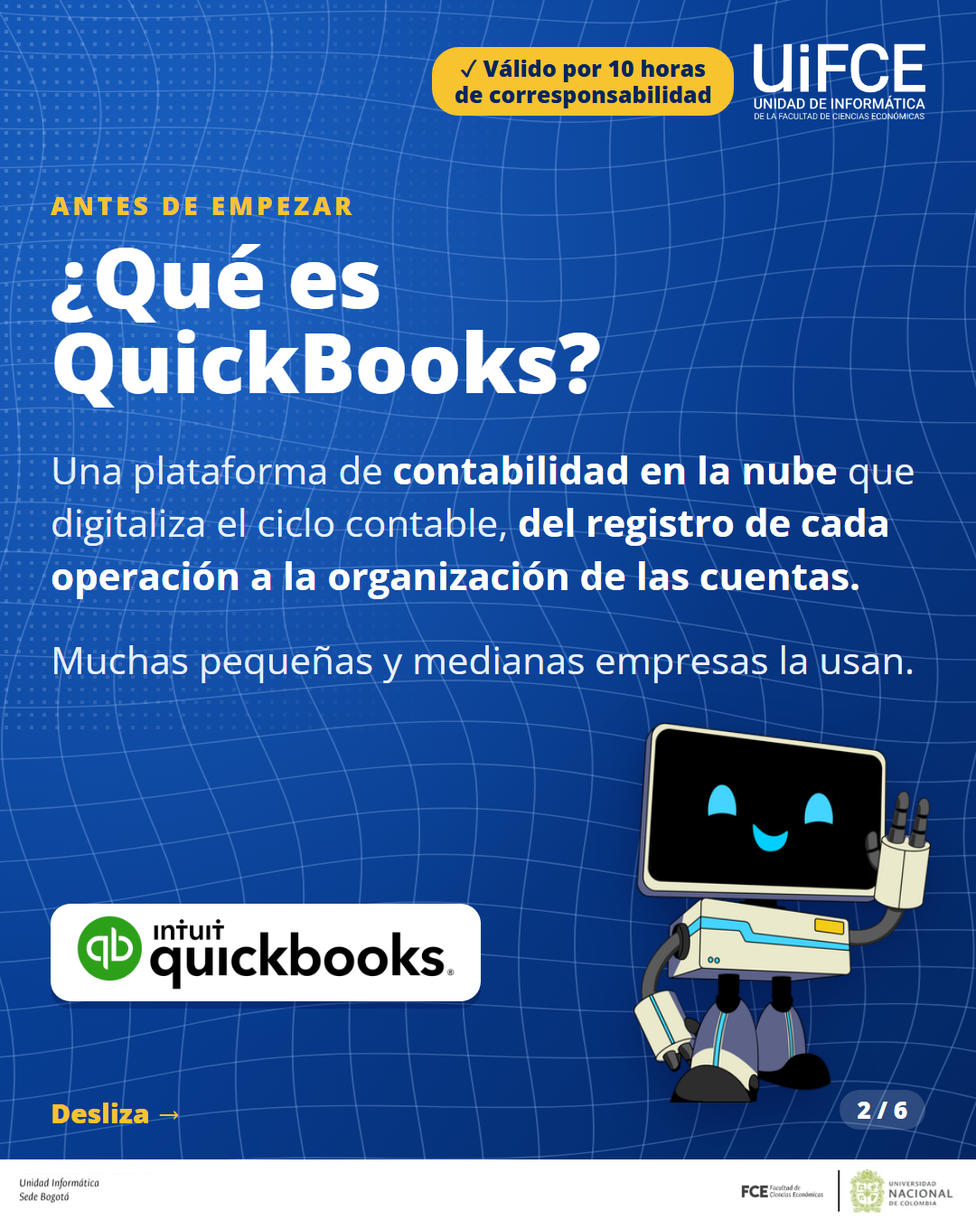
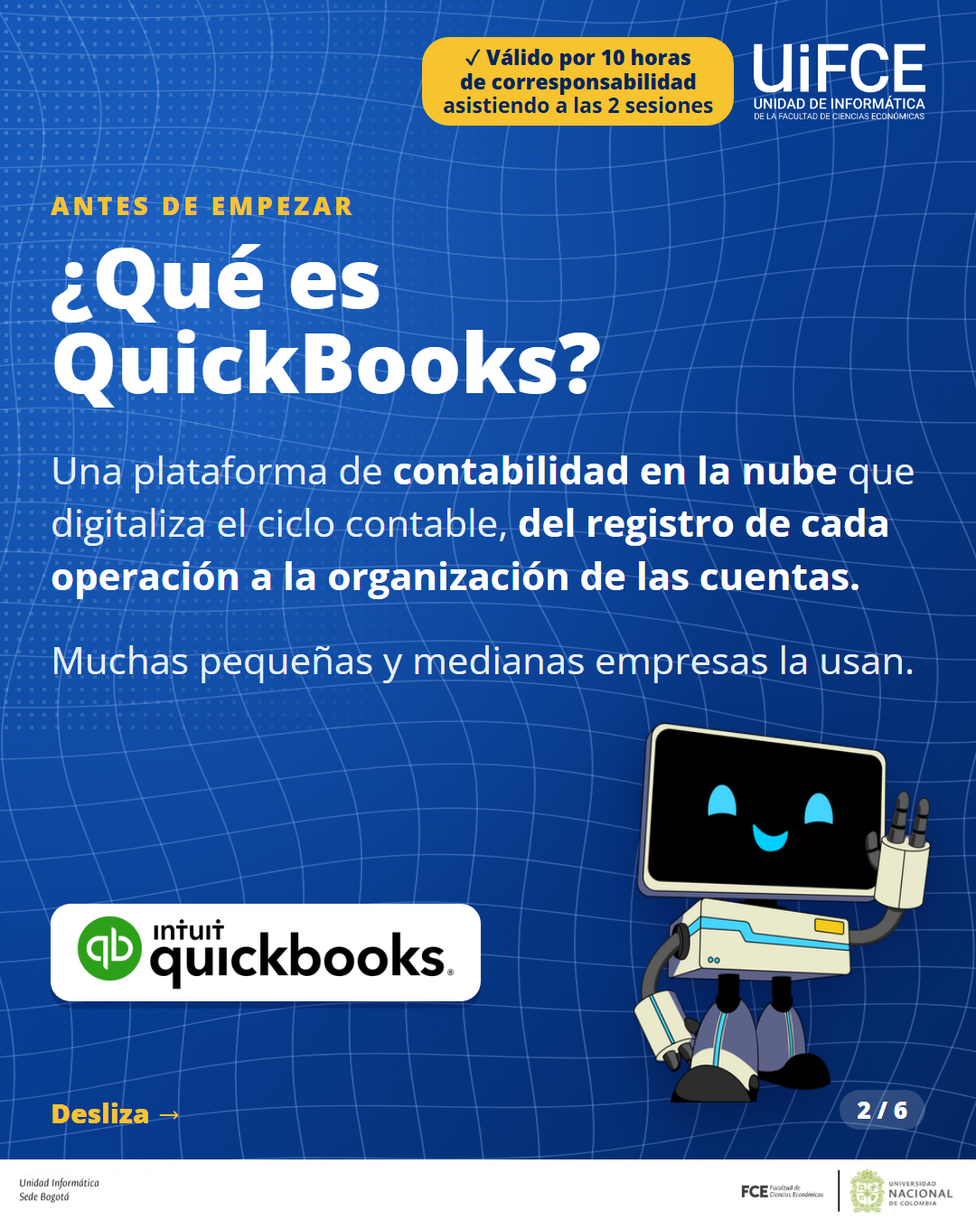
P4: etiqueta de corresponsabilidad indica asistir a las dos sesiones; tv-03 con requisito de dos sesiones

Changed region(s): [[0.4278, 0.0311, 0.7639, 0.1244]]

diff --git a/propuesta-4/extras/ig-04.html b/propuesta-4/extras/ig-04.html
@@ -17,7 +17,7 @@ body{position:relative;overflow:hidden;background:#073a8c;font-family:var(--font
 .qrb small{display:block;font-weight:700;color:var(--blue)}
 .qrb b{display:block;font-weight:800;line-height:1.05}
 .qrb i{display:inline-block;font-style:normal;background:var(--navy);color:#fff;border-radius:999px;font-weight:700}
-.n{position:absolute;z-index:3;right:56px;bottom:100px;font-weight:800;font-size:26px;background:rgba(255,255,255,.16);border-radius:999px;padding:6px 20px}.sw{position:absolute;z-index:3;left:56px;bottom:100px;font-weight:800;font-size:30px;color:var(--gold)}</style></head><body><img class="bg" src="../assets/bg-grid.svg" alt=""><div class="dots"></div><img class="z" src="../assets/logo-uifce-static-blanco.png" alt="UIFCE" style="right:56px;top:48px;height:84px"><div class="z" style="right:268px;top:48px;height:84px;display:flex;align-items:center"><span class="chip on" style="margin:0;font-size:25px;line-height:1.15;text-align:center;border-radius:30px">✓ Válido por 10 horas<br>de corresponsabilidad</span></div><div class="z" style="left:56px;top:200px;width:968px"><div style="background:var(--gold);color:var(--navy);box-shadow:0 8px 0 rgba(0,10,60,.28);border-radius:30px;padding:40px 44px">
+.n{position:absolute;z-index:3;right:56px;bottom:100px;font-weight:800;font-size:26px;background:rgba(255,255,255,.16);border-radius:999px;padding:6px 20px}.sw{position:absolute;z-index:3;left:56px;bottom:100px;font-weight:800;font-size:30px;color:var(--gold)}</style></head><body><img class="bg" src="../assets/bg-grid.svg" alt=""><div class="dots"></div><img class="z" src="../assets/logo-uifce-static-blanco.png" alt="UIFCE" style="right:56px;top:48px;height:84px"><div class="z" style="right:268px;top:48px;height:84px;display:flex;align-items:center"><span class="chip on" style="margin:0;font-size:23px;line-height:1.15;text-align:center;border-radius:30px">✓ Válido por 10 horas<br>de corresponsabilidad<br><b style="color:#04255f;font-weight:700">asistiendo a las 2 sesiones</b></span></div><div class="z" style="left:56px;top:200px;width:968px"><div style="background:var(--gold);color:var(--navy);box-shadow:0 8px 0 rgba(0,10,60,.28);border-radius:30px;padding:40px 44px">
 <div style="display:flex;gap:26px;align-items:center"><svg viewBox="0 0 50 50" width="96" height="96" fill="none" stroke="#04255f" stroke-width="3.6" stroke-linecap="round" stroke-linejoin="round" style="flex:none"><circle cx="25" cy="25" r="20"/><path d="M15 26l7 7 13-15"/></svg><b style="font-weight:800;font-size:68px;line-height:1.02">10 horas de corresponsabilidad</b></div></div>
 <div style="margin-top:52px;display:flex;align-items:center;gap:24px"><svg width="84" height="84" viewBox="0 0 50 50" style="flex:none"><rect width="50" height="50" rx="10" fill="#0A66C2"/><circle cx="12.6" cy="14.6" r="4" fill="#fff"/><rect x="9" y="20.5" width="7.2" height="20" fill="#fff"/><path d="M20.5 20.5h6.9v2.9c1.2-2 3.4-3.4 6.6-3.4 6 0 7.5 3.9 7.5 9.2v11.3h-7.2V30.8c0-2.2-.4-3.9-2.6-3.9-2.4 0-3.2 1.7-3.2 4.2v9.4h-7z" fill="#fff"/></svg><div><b style="font-size:46px;font-weight:800;line-height:1.1;display:block">Certificado de participación</b><span style="font-size:34px">Compártelo en tu perfil de LinkedIn</span></div></div>
 <div class="card" style="margin-top:50px;padding:36px 40px"><div class="k" style="font-size:28px">Para recibirlos necesitas</div>

diff --git a/propuesta-4/extras/ig-01.html b/propuesta-4/extras/ig-01.html
@@ -17,7 +17,7 @@ body{position:relative;overflow:hidden;background:#073a8c;font-family:var(--font
 .qrb small{display:block;font-weight:700;color:var(--blue)}
 .qrb b{display:block;font-weight:800;line-height:1.05}
 .qrb i{display:inline-block;font-style:normal;background:var(--navy);color:#fff;border-radius:999px;font-weight:700}
-.n{position:absolute;z-index:3;right:56px;bottom:100px;font-weight:800;font-size:26px;background:rgba(255,255,255,.16);border-radius:999px;padding:6px 20px}.sw{position:absolute;z-index:3;left:56px;bottom:100px;font-weight:800;font-size:30px;color:var(--gold)}.sw{left:360px}</style></head><body><img class="bg" src="../assets/bg-grid.svg" alt=""><div class="dots"></div><img class="z" src="../assets/logo-uifce-static-blanco.png" alt="UIFCE" style="right:56px;top:48px;height:84px"><div class="z" style="right:268px;top:48px;height:84px;display:flex;align-items:center"><span class="chip on" style="margin:0;font-size:25px;line-height:1.15;text-align:center;border-radius:30px">✓ Válido por 10 horas<br>de corresponsabilidad</span></div><div class="z" style="left:56px;top:56px;font-size:25px"><span class="chip on">Gratuito</span><span class="chip">100 % virtual</span></div>
+.n{position:absolute;z-index:3;right:56px;bottom:100px;font-weight:800;font-size:26px;background:rgba(255,255,255,.16);border-radius:999px;padding:6px 20px}.sw{position:absolute;z-index:3;left:56px;bottom:100px;font-weight:800;font-size:30px;color:var(--gold)}.sw{left:360px}</style></head><body><img class="bg" src="../assets/bg-grid.svg" alt=""><div class="dots"></div><img class="z" src="../assets/logo-uifce-static-blanco.png" alt="UIFCE" style="right:56px;top:48px;height:84px"><div class="z" style="right:268px;top:48px;height:84px;display:flex;align-items:center"><span class="chip on" style="margin:0;font-size:23px;line-height:1.15;text-align:center;border-radius:30px">✓ Válido por 10 horas<br>de corresponsabilidad<br><b style="color:#04255f;font-weight:700">asistiendo a las 2 sesiones</b></span></div><div class="z" style="left:56px;top:56px;font-size:25px"><span class="chip on">Gratuito</span><span class="chip">100 % virtual</span></div>
 <div class="z" style="left:56px;top:250px;width:968px"><p style="font-weight:600;font-size:54px;line-height:1.1">Aprende contabilidad con</p>
 <h1 style="font-weight:800;font-size:150px;line-height:.95;letter-spacing:-.03em;text-transform:uppercase;margin:8px 0 0 -6px">QuickBooks</h1>
 <p style="margin-top:34px;font-weight:600;font-size:52px;line-height:1.1">Formación práctica<br><em style="font-weight:700;color:var(--gold)">en 2 sesiones virtuales</em></p></div><img class="z" src="../assets/uifcito-cierre.png" alt="Uifcito" style="left:-20px;top:760px;height:520px;filter:drop-shadow(0 22px 28px rgba(0,10,60,.45))"><div class="z" style="right:56px;top:830px;width:470px;font-weight:800;font-size:44px;line-height:1.12;text-align:right">Abre la contabilidad de una empresa en la nube</div><div class="z white" style="right:56px;top:1030px;border-radius:22px;padding:12px 28px"><img src="../assets/logo-quickbooks.png" style="height:74px;display:block" alt="QuickBooks"></div><img class="z" src="../assets/footer.png" alt="" style="left:0;bottom:0;width:100%;height:auto"><div class="sw">Desliza →</div><div class="n">1 / 6</div></body></html>

diff --git a/propuesta-4/extras/ig-02.html b/propuesta-4/extras/ig-02.html
@@ -17,7 +17,7 @@ body{position:relative;overflow:hidden;background:#073a8c;font-family:var(--font
 .qrb small{display:block;font-weight:700;color:var(--blue)}
 .qrb b{display:block;font-weight:800;line-height:1.05}
 .qrb i{display:inline-block;font-style:normal;background:var(--navy);color:#fff;border-radius:999px;font-weight:700}
-.n{position:absolute;z-index:3;right:56px;bottom:100px;font-weight:800;font-size:26px;background:rgba(255,255,255,.16);border-radius:999px;padding:6px 20px}.sw{position:absolute;z-index:3;left:56px;bottom:100px;font-weight:800;font-size:30px;color:var(--gold)}</style></head><body><img class="bg" src="../assets/bg-grid.svg" alt=""><div class="dots"></div><img class="z" src="../assets/logo-uifce-static-blanco.png" alt="UIFCE" style="right:56px;top:48px;height:84px"><div class="z" style="right:268px;top:48px;height:84px;display:flex;align-items:center"><span class="chip on" style="margin:0;font-size:25px;line-height:1.15;text-align:center;border-radius:30px">✓ Válido por 10 horas<br>de corresponsabilidad</span></div><div class="z" style="left:56px;top:210px;width:968px"><div class="k" style="font-size:28px">Antes de empezar</div>
+.n{position:absolute;z-index:3;right:56px;bottom:100px;font-weight:800;font-size:26px;background:rgba(255,255,255,.16);border-radius:999px;padding:6px 20px}.sw{position:absolute;z-index:3;left:56px;bottom:100px;font-weight:800;font-size:30px;color:var(--gold)}</style></head><body><img class="bg" src="../assets/bg-grid.svg" alt=""><div class="dots"></div><img class="z" src="../assets/logo-uifce-static-blanco.png" alt="UIFCE" style="right:56px;top:48px;height:84px"><div class="z" style="right:268px;top:48px;height:84px;display:flex;align-items:center"><span class="chip on" style="margin:0;font-size:23px;line-height:1.15;text-align:center;border-radius:30px">✓ Válido por 10 horas<br>de corresponsabilidad<br><b style="color:#04255f;font-weight:700">asistiendo a las 2 sesiones</b></span></div><div class="z" style="left:56px;top:210px;width:968px"><div class="k" style="font-size:28px">Antes de empezar</div>
 <h2 style="font-weight:800;font-size:92px;line-height:1.02;margin-top:14px">¿Qué es<br>QuickBooks?</h2>
 <p style="margin-top:44px;font-size:42px;line-height:1.4;color:#e6efff">Una plataforma de <b style="color:#fff">contabilidad en la nube</b> que digitaliza el ciclo contable, <b style="color:#fff">del registro de cada operación a la organización de las cuentas.</b></p>
 <p style="margin-top:34px;font-size:42px;line-height:1.4;color:#e6efff">Muchas pequeñas y medianas empresas la usan.</p></div><div class="z white" style="left:56px;top:1000px;border-radius:22px;padding:12px 28px"><img src="../assets/logo-quickbooks.png" style="height:84px;display:block" alt="QuickBooks"></div><img class="z" src="../assets/uifcito-cierre.png" alt="Uifcito" style="right:50px;top:800px;height:420px;filter:drop-shadow(0 22px 28px rgba(0,10,60,.45))"><img class="z" src="../assets/footer.png" alt="" style="left:0;bottom:0;width:100%;height:auto"><div class="sw">Desliza →</div><div class="n">2 / 6</div></body></html>

diff --git a/propuesta-4/extras/ig-06.html b/propuesta-4/extras/ig-06.html
@@ -17,6 +17,6 @@ body{position:relative;overflow:hidden;background:#073a8c;font-family:var(--font
 .qrb small{display:block;font-weight:700;color:var(--blue)}
 .qrb b{display:block;font-weight:800;line-height:1.05}
 .qrb i{display:inline-block;font-style:normal;background:var(--navy);color:#fff;border-radius:999px;font-weight:700}
-.n{position:absolute;z-index:3;right:56px;bottom:100px;font-weight:800;font-size:26px;background:rgba(255,255,255,.16);border-radius:999px;padding:6px 20px}.sw{position:absolute;z-index:3;left:56px;bottom:100px;font-weight:800;font-size:30px;color:var(--gold)}</style></head><body><img class="bg" src="../assets/bg-grid.svg" alt=""><div class="dots"></div><img class="z" src="../assets/logo-uifce-static-blanco.png" alt="UIFCE" style="right:56px;top:48px;height:84px"><div class="z" style="right:268px;top:48px;height:84px;display:flex;align-items:center"><span class="chip on" style="margin:0;font-size:25px;line-height:1.15;text-align:center;border-radius:30px">✓ Válido por 10 horas<br>de corresponsabilidad</span></div><div class="z" style="left:56px;top:190px;width:968px"><h2 style="font-weight:800;font-size:96px;line-height:1.02">¡Inscríbete<br><span class="gold">gratis!</span></h2></div>
+.n{position:absolute;z-index:3;right:56px;bottom:100px;font-weight:800;font-size:26px;background:rgba(255,255,255,.16);border-radius:999px;padding:6px 20px}.sw{position:absolute;z-index:3;left:56px;bottom:100px;font-weight:800;font-size:30px;color:var(--gold)}</style></head><body><img class="bg" src="../assets/bg-grid.svg" alt=""><div class="dots"></div><img class="z" src="../assets/logo-uifce-static-blanco.png" alt="UIFCE" style="right:56px;top:48px;height:84px"><div class="z" style="right:268px;top:48px;height:84px;display:flex;align-items:center"><span class="chip on" style="margin:0;font-size:23px;line-height:1.15;text-align:center;border-radius:30px">✓ Válido por 10 horas<br>de corresponsabilidad<br><b style="color:#04255f;font-weight:700">asistiendo a las 2 sesiones</b></span></div><div class="z" style="left:56px;top:190px;width:968px"><h2 style="font-weight:800;font-size:96px;line-height:1.02">¡Inscríbete<br><span class="gold">gratis!</span></h2></div>
 <div class="z qrb" style="left:56px;top:480px;width:968px;border-radius:40px;padding:36px 44px;gap:44px"><img src="../assets/qr-uifce.svg" style="width:340px;height:340px" alt="QR">
 <span><small style="font-size:30px">Escanea el QR</small><b style="font-size:70px;margin-top:8px">Inscripciones aquí</b><i style="margin-top:20px;font-size:36px;padding:10px 28px">linktr.ee/UIFCE</i></span></div><div class="z" style="left:56px;top:940px;width:968px;font-size:36px;font-weight:600;line-height:1.4">Vie. 27 nov y mié. 2 dic · 11 a. m. – 1 p. m.<br><span style="color:var(--gold);font-weight:700">uniic_bog@unal.edu.co</span> · Tel. 316 5000, ext. 12301<br>LinkedIn: <span style="color:var(--gold);font-weight:700">linkedin.com/in/uifce</span></div><img class="z" src="../assets/footer.png" alt="" style="left:0;bottom:0;width:100%;height:auto"><div class="n">6 / 6</div></body></html>

diff --git a/propuesta-4/extras/ig-03.html b/propuesta-4/extras/ig-03.html
@@ -17,7 +17,7 @@ body{position:relative;overflow:hidden;background:#073a8c;font-family:var(--font
 .qrb small{display:block;font-weight:700;color:var(--blue)}
 .qrb b{display:block;font-weight:800;line-height:1.05}
 .qrb i{display:inline-block;font-style:normal;background:var(--navy);color:#fff;border-radius:999px;font-weight:700}
-.n{position:absolute;z-index:3;right:56px;bottom:100px;font-weight:800;font-size:26px;background:rgba(255,255,255,.16);border-radius:999px;padding:6px 20px}.sw{position:absolute;z-index:3;left:56px;bottom:100px;font-weight:800;font-size:30px;color:var(--gold)}</style></head><body><img class="bg" src="../assets/bg-grid.svg" alt=""><div class="dots"></div><img class="z" src="../assets/logo-uifce-static-blanco.png" alt="UIFCE" style="right:56px;top:48px;height:84px"><div class="z" style="right:268px;top:48px;height:84px;display:flex;align-items:center"><span class="chip on" style="margin:0;font-size:25px;line-height:1.15;text-align:center;border-radius:30px">✓ Válido por 10 horas<br>de corresponsabilidad</span></div><div class="z" style="left:56px;top:190px"><h2 style="font-weight:800;font-size:84px;line-height:1.02">Dos sesiones,<br><span class="gold">4 horas en total</span></h2></div><div class="z card" style="left:56px;top:480px;width:968px;padding:36px 40px"><div class="k" style="font-size:28px">Sesión 1</div>
+.n{position:absolute;z-index:3;right:56px;bottom:100px;font-weight:800;font-size:26px;background:rgba(255,255,255,.16);border-radius:999px;padding:6px 20px}.sw{position:absolute;z-index:3;left:56px;bottom:100px;font-weight:800;font-size:30px;color:var(--gold)}</style></head><body><img class="bg" src="../assets/bg-grid.svg" alt=""><div class="dots"></div><img class="z" src="../assets/logo-uifce-static-blanco.png" alt="UIFCE" style="right:56px;top:48px;height:84px"><div class="z" style="right:268px;top:48px;height:84px;display:flex;align-items:center"><span class="chip on" style="margin:0;font-size:23px;line-height:1.15;text-align:center;border-radius:30px">✓ Válido por 10 horas<br>de corresponsabilidad<br><b style="color:#04255f;font-weight:700">asistiendo a las 2 sesiones</b></span></div><div class="z" style="left:56px;top:190px"><h2 style="font-weight:800;font-size:84px;line-height:1.02">Dos sesiones,<br><span class="gold">4 horas en total</span></h2></div><div class="z card" style="left:56px;top:480px;width:968px;padding:36px 40px"><div class="k" style="font-size:28px">Sesión 1</div>
 <h3 style="font-weight:800;font-size:56px;line-height:1.1;margin-top:10px">Conoce QuickBooks y abre Crece Digital S.A.S.</h3>
 <div style="margin-top:22px;border:3px dashed rgba(255,255,255,.65);border-radius:18px;padding:18px 24px;font-weight:700;font-size:38px">Viernes 27 de noviembre · 11 a. m. – 1 p. m.</div></div><div class="z card" style="left:56px;top:830px;width:968px;padding:36px 40px"><div class="k" style="font-size:28px">Sesión 2</div>
 <h3 style="font-weight:800;font-size:56px;line-height:1.1;margin-top:10px">Crea tu plan de cuentas, el capital y el catálogo</h3>

diff --git a/propuesta-4/extras/tv-03.html b/propuesta-4/extras/tv-03.html
@@ -17,10 +17,11 @@ body{position:relative;overflow:hidden;background:#073a8c;font-family:var(--font
 .qrb small{display:block;font-weight:700;color:var(--blue)}
 .qrb b{display:block;font-weight:800;line-height:1.05}
 .qrb i{display:inline-block;font-style:normal;background:var(--navy);color:#fff;border-radius:999px;font-weight:700}
-</style></head><body><img class="bg" src="../assets/bg-grid.svg" alt=""><div class="dots"></div><img class="z" src="../assets/logo-uifce-static-blanco.png" alt="UIFCE" style="left:56px;top:44px;height:96px"><div class="z" style="left:310px;top:44px;height:96px;display:flex;align-items:center"><span class="chip on" style="margin:0;font-size:36px">✓ Válido por 10 horas de corresponsabilidad</span></div><div class="z" style="left:56px;top:170px;width:1808px"><div style="background:var(--gold);color:var(--navy);border-radius:30px;padding:40px 52px;display:flex;align-items:center;gap:34px;box-shadow:0 8px 0 rgba(0,10,60,.28)"><svg viewBox="0 0 50 50" width="130" height="130" fill="none" stroke="#04255f" stroke-width="3.6" stroke-linecap="round" stroke-linejoin="round" style="flex:none"><circle cx="25" cy="25" r="20"/><path d="M15 26l7 7 13-15"/></svg>
+</style></head><body><img class="bg" src="../assets/bg-grid.svg" alt=""><div class="dots"></div><img class="z" src="../assets/logo-uifce-static-blanco.png" alt="UIFCE" style="left:56px;top:44px;height:96px"><div class="z" style="left:310px;top:44px;height:96px;display:flex;align-items:center"><span class="chip on" style="margin:0;font-size:34px;line-height:1.15;border-radius:40px">✓ Válido por 10 horas de corresponsabilidad<br><b style="color:#04255f;font-weight:700">asistiendo a las 2 sesiones</b></span></div><div class="z" style="left:56px;top:170px;width:1808px"><div style="background:var(--gold);color:var(--navy);border-radius:30px;padding:40px 52px;display:flex;align-items:center;gap:34px;box-shadow:0 8px 0 rgba(0,10,60,.28)"><svg viewBox="0 0 50 50" width="130" height="130" fill="none" stroke="#04255f" stroke-width="3.6" stroke-linecap="round" stroke-linejoin="round" style="flex:none"><circle cx="25" cy="25" r="20"/><path d="M15 26l7 7 13-15"/></svg>
 <b style="font-weight:800;font-size:86px;line-height:1.05">10 horas de corresponsabilidad + certificado</b></div></div>
 <div class="z card" style="left:56px;top:470px;width:1250px;padding:40px 52px"><div class="k" style="font-size:36px">Para recibirlos necesitas</div>
 <ul style="list-style:none;font-size:48px;font-weight:700;line-height:1.3;margin-top:16px">
+<li style="margin-top:14px"><span class="gold">✓</span> Asistir a las <b class="gold">dos sesiones</b></li>
 <li style="margin-top:14px"><span class="gold">✓</span> Asistir mínimo al <b class="gold">70 %</b> del tiempo de clase</li>
 <li style="margin-top:14px"><span class="gold">✓</span> Diligenciar el formulario de preguntas</li>
 <li style="margin-top:14px"><span class="gold">✓</span> Responder la encuesta de satisfacción</li></ul></div>

diff --git a/propuesta-4/extras/ig-05.html b/propuesta-4/extras/ig-05.html
@@ -17,6 +17,6 @@ body{position:relative;overflow:hidden;background:#073a8c;font-family:var(--font
 .qrb small{display:block;font-weight:700;color:var(--blue)}
 .qrb b{display:block;font-weight:800;line-height:1.05}
 .qrb i{display:inline-block;font-style:normal;background:var(--navy);color:#fff;border-radius:999px;font-weight:700}
-.n{position:absolute;z-index:3;right:56px;bottom:100px;font-weight:800;font-size:26px;background:rgba(255,255,255,.16);border-radius:999px;padding:6px 20px}.sw{position:absolute;z-index:3;left:56px;bottom:100px;font-weight:800;font-size:30px;color:var(--gold)}</style></head><body><img class="bg" src="../assets/bg-grid.svg" alt=""><div class="dots"></div><img class="z" src="../assets/logo-uifce-static-blanco.png" alt="UIFCE" style="right:56px;top:48px;height:84px"><div class="z" style="right:268px;top:48px;height:84px;display:flex;align-items:center"><span class="chip on" style="margin:0;font-size:25px;line-height:1.15;text-align:center;border-radius:30px">✓ Válido por 10 horas<br>de corresponsabilidad</span></div><div class="z" style="left:56px;top:230px;width:968px"><div class="k" style="font-size:30px">Tu monitora</div><h2 style="font-weight:800;font-size:76px;line-height:1.05;margin-top:10px">Angelica Cárdenas</h2></div>
+.n{position:absolute;z-index:3;right:56px;bottom:100px;font-weight:800;font-size:26px;background:rgba(255,255,255,.16);border-radius:999px;padding:6px 20px}.sw{position:absolute;z-index:3;left:56px;bottom:100px;font-weight:800;font-size:30px;color:var(--gold)}</style></head><body><img class="bg" src="../assets/bg-grid.svg" alt=""><div class="dots"></div><img class="z" src="../assets/logo-uifce-static-blanco.png" alt="UIFCE" style="right:56px;top:48px;height:84px"><div class="z" style="right:268px;top:48px;height:84px;display:flex;align-items:center"><span class="chip on" style="margin:0;font-size:23px;line-height:1.15;text-align:center;border-radius:30px">✓ Válido por 10 horas<br>de corresponsabilidad<br><b style="color:#04255f;font-weight:700">asistiendo a las 2 sesiones</b></span></div><div class="z" style="left:56px;top:230px;width:968px"><div class="k" style="font-size:30px">Tu monitora</div><h2 style="font-weight:800;font-size:76px;line-height:1.05;margin-top:10px">Angelica Cárdenas</h2></div>
 <div class="z" style="left:56px;top:430px;width:968px;border-radius:28px;overflow:hidden;box-shadow:0 10px 0 rgba(0,10,60,.3)"><img src="../assets/perfil-linkedin.png" style="display:block;width:100%" alt="Perfil de LinkedIn de Angelica Cárdenas"></div>
 <div class="z" style="left:56px;top:990px;width:968px;font-size:38px;font-weight:600;line-height:1.35">Estudiante de Economía y monitora UIFCE.<br><span style="color:var(--gold);font-weight:700">Conéctate en LinkedIn</span> y sigue a <b>linkedin.com/in/uifce</b></div><img class="z" src="../assets/footer.png" alt="" style="left:0;bottom:0;width:100%;height:auto"><div class="sw">Desliza →</div><div class="n">5 / 6</div></body></html>

diff --git a/propuesta-4/extras/tv-01.html b/propuesta-4/extras/tv-01.html
@@ -17,7 +17,7 @@ body{position:relative;overflow:hidden;background:#073a8c;font-family:var(--font
 .qrb small{display:block;font-weight:700;color:var(--blue)}
 .qrb b{display:block;font-weight:800;line-height:1.05}
 .qrb i{display:inline-block;font-style:normal;background:var(--navy);color:#fff;border-radius:999px;font-weight:700}
-</style></head><body><img class="bg" src="../assets/bg-grid.svg" alt=""><div class="dots"></div><img class="z" src="../assets/logo-uifce-static-blanco.png" alt="UIFCE" style="left:56px;top:44px;height:96px"><div class="z" style="left:310px;top:44px;height:96px;display:flex;align-items:center"><span class="chip on" style="margin:0;font-size:36px">✓ Válido por 10 horas de corresponsabilidad</span></div><div class="z" style="left:56px;top:190px;width:1400px"><div style="font-size:36px;display:flex;flex-wrap:wrap;gap:18px 14px"><span class="chip on" style="margin:0">Gratuito</span><span class="chip" style="margin:0">100 % virtual</span></div>
+</style></head><body><img class="bg" src="../assets/bg-grid.svg" alt=""><div class="dots"></div><img class="z" src="../assets/logo-uifce-static-blanco.png" alt="UIFCE" style="left:56px;top:44px;height:96px"><div class="z" style="left:310px;top:44px;height:96px;display:flex;align-items:center"><span class="chip on" style="margin:0;font-size:34px;line-height:1.15;border-radius:40px">✓ Válido por 10 horas de corresponsabilidad<br><b style="color:#04255f;font-weight:700">asistiendo a las 2 sesiones</b></span></div><div class="z" style="left:56px;top:190px;width:1400px"><div style="font-size:36px;display:flex;flex-wrap:wrap;gap:18px 14px"><span class="chip on" style="margin:0">Gratuito</span><span class="chip" style="margin:0">100 % virtual</span></div>
 <p style="font-weight:600;font-size:72px;margin-top:40px">Aprende contabilidad con</p>
 <h1 style="font-weight:800;font-size:210px;line-height:.95;letter-spacing:-.03em;text-transform:uppercase;margin-left:-8px">QuickBooks</h1>
 <p style="font-weight:600;font-size:66px;margin-top:24px">Formación práctica <em style="font-weight:700;color:var(--gold)">en 2 sesiones virtuales</em></p></div><img class="z" src="../assets/uifcito-cierre.png" alt="Uifcito" style="right:60px;top:110px;height:450px;filter:drop-shadow(0 22px 28px rgba(0,10,60,.45))"><div class="z white" style="left:56px;bottom:56px;border-radius:22px;padding:12px 28px"><img src="../assets/logo-quickbooks.png" style="height:84px;display:block" alt="QuickBooks"></div><div class="z" style="left:620px;bottom:62px;width:760px;font-weight:800;font-size:44px;line-height:1.12">Abre la contabilidad de una empresa en la nube</div><div class="z qrb" style="right:48px;bottom:48px;border-radius:30px;padding:22px 26px 26px;flex-direction:column;gap:14px"><b style="font-size:34px;text-align:center">Inscríbete aquí</b><img src="../assets/qr-uifce.svg" style="width:290px;height:290px" alt="QR de inscripción"></div></body></html>

diff --git a/propuesta-4/extras/tv-02.html b/propuesta-4/extras/tv-02.html
@@ -17,7 +17,7 @@ body{position:relative;overflow:hidden;background:#073a8c;font-family:var(--font
 .qrb small{display:block;font-weight:700;color:var(--blue)}
 .qrb b{display:block;font-weight:800;line-height:1.05}
 .qrb i{display:inline-block;font-style:normal;background:var(--navy);color:#fff;border-radius:999px;font-weight:700}
-</style></head><body><img class="bg" src="../assets/bg-grid.svg" alt=""><div class="dots"></div><img class="z" src="../assets/logo-uifce-static-blanco.png" alt="UIFCE" style="left:56px;top:44px;height:96px"><div class="z" style="left:310px;top:44px;height:96px;display:flex;align-items:center"><span class="chip on" style="margin:0;font-size:36px">✓ Válido por 10 horas de corresponsabilidad</span></div><div class="z" style="left:56px;top:150px;width:1500px"><h2 style="font-weight:800;font-size:84px">Dos sesiones · <span class="gold">4 horas en total</span></h2></div><div class="z card" style="left:56px;top:270px;width:1300px;height:330px;padding:34px 48px;display:flex;align-items:center;gap:44px"><div style="flex:1"><div class="k" style="font-size:34px">Sesión 1</div>
+</style></head><body><img class="bg" src="../assets/bg-grid.svg" alt=""><div class="dots"></div><img class="z" src="../assets/logo-uifce-static-blanco.png" alt="UIFCE" style="left:56px;top:44px;height:96px"><div class="z" style="left:310px;top:44px;height:96px;display:flex;align-items:center"><span class="chip on" style="margin:0;font-size:34px;line-height:1.15;border-radius:40px">✓ Válido por 10 horas de corresponsabilidad<br><b style="color:#04255f;font-weight:700">asistiendo a las 2 sesiones</b></span></div><div class="z" style="left:56px;top:150px;width:1500px"><h2 style="font-weight:800;font-size:84px">Dos sesiones · <span class="gold">4 horas en total</span></h2></div><div class="z card" style="left:56px;top:270px;width:1300px;height:330px;padding:34px 48px;display:flex;align-items:center;gap:44px"><div style="flex:1"><div class="k" style="font-size:34px">Sesión 1</div>
 <h3 style="font-weight:800;font-size:60px;line-height:1.1;margin-top:10px">Conoce QuickBooks y abre Crece Digital S.A.S.</h3></div>
 <div style="flex:none;width:430px;border:3px dashed rgba(255,255,255,.7);border-radius:22px;padding:24px 28px;font-weight:700;font-size:42px;line-height:1.3">Viernes 27 de noviembre<br>11 a. m. – 1 p. m.</div></div><div class="z card" style="left:56px;top:630px;width:1300px;height:330px;padding:34px 48px;display:flex;align-items:center;gap:44px"><div style="flex:1"><div class="k" style="font-size:34px">Sesión 2</div>
 <h3 style="font-weight:800;font-size:60px;line-height:1.1;margin-top:10px">Crea tu plan de cuentas, el capital y el catálogo</h3></div>

diff --git a/propuesta-4/extras/tv-04.html b/propuesta-4/extras/tv-04.html
@@ -17,7 +17,7 @@ body{position:relative;overflow:hidden;background:#073a8c;font-family:var(--font
 .qrb small{display:block;font-weight:700;color:var(--blue)}
 .qrb b{display:block;font-weight:800;line-height:1.05}
 .qrb i{display:inline-block;font-style:normal;background:var(--navy);color:#fff;border-radius:999px;font-weight:700}
-</style></head><body><img class="bg" src="../assets/bg-grid.svg" alt=""><div class="dots"></div><img class="z" src="../assets/logo-uifce-static-blanco.png" alt="UIFCE" style="left:56px;top:44px;height:96px"><div class="z" style="left:310px;top:44px;height:96px;display:flex;align-items:center"><span class="chip on" style="margin:0;font-size:36px">✓ Válido por 10 horas de corresponsabilidad</span></div><div class="z" style="left:56px;top:180px;width:1380px"><div class="k" style="font-size:38px">Antes de empezar</div>
+</style></head><body><img class="bg" src="../assets/bg-grid.svg" alt=""><div class="dots"></div><img class="z" src="../assets/logo-uifce-static-blanco.png" alt="UIFCE" style="left:56px;top:44px;height:96px"><div class="z" style="left:310px;top:44px;height:96px;display:flex;align-items:center"><span class="chip on" style="margin:0;font-size:34px;line-height:1.15;border-radius:40px">✓ Válido por 10 horas de corresponsabilidad<br><b style="color:#04255f;font-weight:700">asistiendo a las 2 sesiones</b></span></div><div class="z" style="left:56px;top:180px;width:1380px"><div class="k" style="font-size:38px">Antes de empezar</div>
 <h2 style="font-weight:800;font-size:108px;line-height:1.02;margin-top:12px;white-space:nowrap">¿Qué es QuickBooks?</h2>
 <p style="margin-top:36px;font-size:54px;line-height:1.35;color:#e6efff">Una plataforma de <b style="color:#fff">contabilidad en la nube</b> que digitaliza el ciclo contable, <b style="color:#fff">del registro de cada operación a la organización de las cuentas.</b></p>
 <p style="margin-top:22px;font-size:54px;line-height:1.35;color:#e6efff">Muchas pequeñas y medianas empresas la usan.</p></div><img class="z" src="../assets/uifcito-cierre.png" alt="Uifcito" style="right:60px;top:110px;height:450px;filter:drop-shadow(0 22px 28px rgba(0,10,60,.45))"><div class="z white" style="left:56px;bottom:56px;border-radius:22px;padding:12px 28px"><img src="../assets/logo-quickbooks.png" style="height:84px;display:block" alt="QuickBooks"></div><div class="z qrb" style="right:48px;bottom:48px;border-radius:30px;padding:22px 26px 26px;flex-direction:column;gap:14px"><b style="font-size:34px;text-align:center">Inscríbete aquí</b><img src="../assets/qr-uifce.svg" style="width:290px;height:290px" alt="QR de inscripción"></div></body></html>

diff --git a/propuesta-4/extras/tv-05.html b/propuesta-4/extras/tv-05.html
@@ -17,5 +17,5 @@ body{position:relative;overflow:hidden;background:#073a8c;font-family:var(--font
 .qrb small{display:block;font-weight:700;color:var(--blue)}
 .qrb b{display:block;font-weight:800;line-height:1.05}
 .qrb i{display:inline-block;font-style:normal;background:var(--navy);color:#fff;border-radius:999px;font-weight:700}
-</style></head><body><img class="bg" src="../assets/bg-grid.svg" alt=""><div class="dots"></div><img class="z" src="../assets/logo-uifce-static-blanco.png" alt="UIFCE" style="left:56px;top:44px;height:96px"><div class="z" style="left:310px;top:44px;height:96px;display:flex;align-items:center"><span class="chip on" style="margin:0;font-size:36px">✓ Válido por 10 horas de corresponsabilidad</span></div><div class="z" style="left:56px;top:170px;width:1200px;border-radius:30px;overflow:hidden;box-shadow:0 10px 0 rgba(0,10,60,.3)"><img src="../assets/perfil-linkedin.png" style="display:block;width:100%" alt="Perfil de LinkedIn de Angelica Cárdenas"></div>
+</style></head><body><img class="bg" src="../assets/bg-grid.svg" alt=""><div class="dots"></div><img class="z" src="../assets/logo-uifce-static-blanco.png" alt="UIFCE" style="left:56px;top:44px;height:96px"><div class="z" style="left:310px;top:44px;height:96px;display:flex;align-items:center"><span class="chip on" style="margin:0;font-size:34px;line-height:1.15;border-radius:40px">✓ Válido por 10 horas de corresponsabilidad<br><b style="color:#04255f;font-weight:700">asistiendo a las 2 sesiones</b></span></div><div class="z" style="left:56px;top:170px;width:1200px;border-radius:30px;overflow:hidden;box-shadow:0 10px 0 rgba(0,10,60,.3)"><img src="../assets/perfil-linkedin.png" style="display:block;width:100%" alt="Perfil de LinkedIn de Angelica Cárdenas"></div>
 <div class="z" style="left:56px;top:150px;display:none"></div><div class="z" style="left:56px;top:810px;width:1400px;font-size:42px;font-weight:600;line-height:1.4">Vie. 27 nov y mié. 2 dic · 11 a. m. – 1 p. m.<br><span style="color:var(--gold);font-weight:700">uniic_bog@unal.edu.co</span> · Tel. 316 5000, ext. 12301<br>LinkedIn: <span style="color:var(--gold);font-weight:700">linkedin.com/in/uifce</span></div><img class="z" src="../assets/uifcito-cierre.png" alt="Uifcito" style="right:60px;top:110px;height:450px;filter:drop-shadow(0 22px 28px rgba(0,10,60,.45))"><div class="z qrb" style="right:48px;bottom:48px;border-radius:30px;padding:22px 26px 26px;flex-direction:column;gap:14px"><b style="font-size:34px;text-align:center">Inscríbete aquí</b><img src="../assets/qr-uifce.svg" style="width:290px;height:290px" alt="QR de inscripción"></div></body></html>

diff --git a/propuesta-4/extras/banner-formulario.html b/propuesta-4/extras/banner-formulario.html
@@ -17,7 +17,7 @@ body{position:relative;overflow:hidden;background:#073a8c;font-family:var(--font
 .qrb small{display:block;font-weight:700;color:var(--blue)}
 .qrb b{display:block;font-weight:800;line-height:1.05}
 .qrb i{display:inline-block;font-style:normal;background:var(--navy);color:#fff;border-radius:999px;font-weight:700}
-</style></head><body><img class="bg" src="../assets/bg-grid.svg" alt=""><div class="dots"></div><img class="z" src="../assets/logo-uifce-static-blanco.png" alt="UIFCE" style="right:48px;top:30px;height:72px"><div class="z" style="right:240px;top:30px;height:72px;display:flex;align-items:center"><span class="chip on" style="margin:0;font-size:22px;line-height:1.15;text-align:center;border-radius:26px">✓ Válido por 10 horas<br>de corresponsabilidad</span></div>
+</style></head><body><img class="bg" src="../assets/bg-grid.svg" alt=""><div class="dots"></div><img class="z" src="../assets/logo-uifce-static-blanco.png" alt="UIFCE" style="right:48px;top:30px;height:72px"><div class="z" style="right:240px;top:30px;height:72px;display:flex;align-items:center"><span class="chip on" style="margin:0;font-size:22px;line-height:1.15;text-align:center;border-radius:26px">✓ Válido por 10 horas<br>de corresponsabilidad<br><b style="color:#04255f;font-weight:700">asistiendo a las 2 sesiones</b></span></div>
 <div class="z" style="left:56px;top:40px;font-size:24px"><span class="chip on">Gratuito</span><span class="chip">100 % virtual</span></div>
 <div class="z" style="left:56px;top:120px;width:1100px"><p style="font-weight:600;font-size:40px;line-height:1.1">Microtaller UIFCE · Contabilidad en la nube con</p>
 <h1 style="font-weight:800;font-size:112px;line-height:.98;letter-spacing:-.03em;text-transform:uppercase;margin-left:-4px">QuickBooks</h1>
